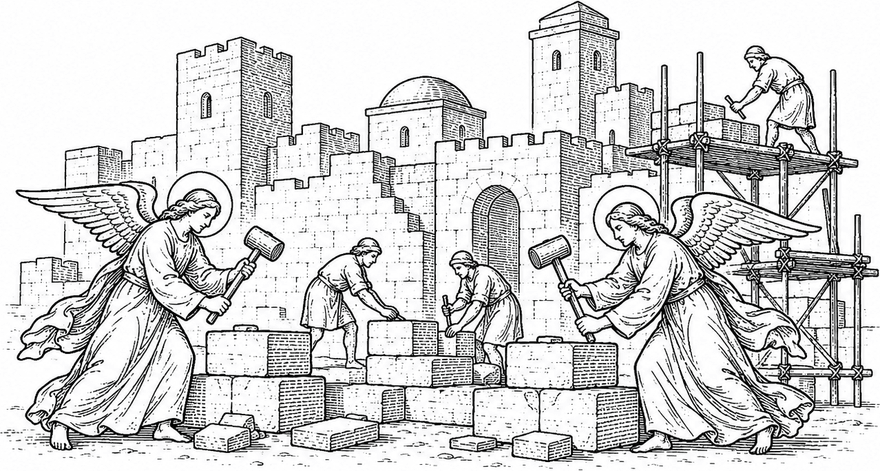
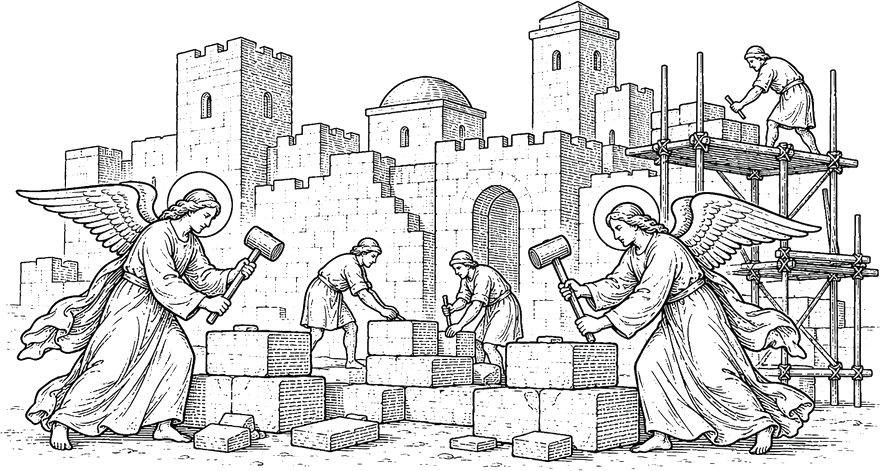
Page d'ouverture : textes de présentation, six ornements distincts
Les quatre points de présentation cèdent la place aux cinq textes fournis, qui
disent enfin ce que le site sera : le modèle de Vigouroux, les traductions
anciennes libres de droit, l'interface et la recherche avancée, l'exigence et le
rôle des signalements, la gratuité. La phrase d'accroche disparaît — les chiffres
prennent sa place et remontent dans le premier écran, qui tient toujours d'un
seul tenant.

Les siècles passent en petites capitales : un XVIIe en capitales pleines fait
une tache dans une ligne de bas-de-casse.

Cinq gravures du dossier CDL s'ajoutent à celle des bâtisseurs, une par
séparation — un motif répété cesse d'être un ornement pour devenir un habillage.
Leurs fonds n'étaient pas blancs mais gris (jusqu'à 230 pour la plus grande) :
multipliés sur le crème, ils plaquaient un rectangle terne. Le point blanc de
chacune est remonté avant détourage, vérifié par histogramme.

diff --git a/app/compte/page.tsx b/app/compte/page.tsx
@@ -106,6 +106,18 @@ function IcoLien() {
     </svg>
   );
 }
+function IcoExigence() {
+  return (
+    <svg width="26" height="26" viewBox="0 0 24 24" aria-hidden="true">
+      {/* une balance : la rigueur, et le partage du jugement */}
+      <path d="M12 4.5v15M7 19.5h10" {...traits} />
+      <path d="M5 8.5h14" {...traits} />
+      <path d="M5 8.5 2.5 14h5z" {...traits} />
+      <path d="M19 8.5 16.5 14h5z" {...traits} />
+      <circle cx="12" cy="6.6" r="1.6" {...traits} />
+    </svg>
+  );
+}
 function IcoLibre() {
   return (
     <svg width="26" height="26" viewBox="0 0 24 24" aria-hidden="true">
@@ -125,21 +137,32 @@ function IcoLibre() {
 // détourage aurait laissé un liseré clair autour de chaque trait.
 const MELANGE: React.CSSProperties = { mixBlendMode: "multiply", display: "block", margin: "0 auto", height: "auto" };
 
-/** Rinceau de vigne à grappe : sépare deux sections. */
-function Vigne({ largeur = 190, opacite = 1 }: { largeur?: number; opacite?: number }) {
+/** Les ornements de séparation. Chacun ne paraît qu'une fois : un motif répété
+ *  cesse d'être un ornement pour devenir un habillage. */
+const ORNEMENTS = {
+  vigne:      { src: "/ornements/vigne-grappe.png", w: 520, h: 247 },
+  clochettes: { src: "/ornements/clochettes.png",   w: 560, h: 110 },
+  lampes:     { src: "/ornements/lampes.png",       w: 520, h: 157 },
+  puits:      { src: "/ornements/puits.png",        w: 340, h: 230 },
+  etoiles:    { src: "/ornements/bois-etoiles.png", w: 380, h: 272 },
+} as const;
+
+function Ornement({ nom, largeur, opacite = 1 }: { nom: keyof typeof ORNEMENTS; largeur: number; opacite?: number }) {
+  const o = ORNEMENTS[nom];
   return (
-    <Image src="/ornements/vigne-grappe.png" alt="" aria-hidden="true"
-      width={520} height={247} sizes={`${largeur}px`}
+    <Image src={o.src} alt="" aria-hidden="true" width={o.w} height={o.h}
+      sizes={`${largeur}px`}
       style={{ ...MELANGE, width: largeur, maxWidth: "100%", opacity: opacite }} />
   );
 }
 
-/** Vase parmi les flots : second ornement de séparation. */
-function VaseFlots({ largeur = 220, opacite = 1 }: { largeur?: number; opacite?: number }) {
+/** Siècle en petites capitales : « XVII<sup>e</sup> » composé en capitales
+ *  pleines fait une tache dans une ligne de bas-de-casse. */
+function Siecle({ n }: { n: string }) {
   return (
-    <Image src="/ornements/vase-flots.png" alt="" aria-hidden="true"
-      width={520} height={156} sizes={`${largeur}px`}
-      style={{ ...MELANGE, width: largeur, maxWidth: "100%", opacity: opacite }} />
+    <span style={{ fontVariant: "small-caps", textTransform: "lowercase" }}>
+      {n}<sup style={{ fontVariant: "normal", fontSize: "0.72em" }}>e</sup>
+    </span>
   );
 }
 
@@ -159,15 +182,28 @@ function CulDeLampe() {
   );
 }
 
-const PRINCIPES: { ico: React.ReactNode; titre: string; texte: string }[] = [
-  { ico: <IcoColonnes />, titre: "Les traductions côte à côte",
-    texte: "Le même verset dans chaque colonne, aligné sur la numérotation du canon. On compare d’un regard, sans feuilleter." },
+const PRINCIPES: { ico: React.ReactNode; titre: string; texte: React.ReactNode }[] = [
+  { ico: <IcoColonnes />, titre: "Les traductions en regard",
+    texte: <>Sur le modèle de la <i>Sainte Bible polyglotte</i> de Fulcran Vigouroux, Corpus Scriptura
+      permettra de consulter en regard les meilleures traductions françaises de la Bible. Nous prévoyons
+      également d’y proposer les textes bibliques en grec, en latin et dans d’autres langues anciennes.</> },
   { ico: <IcoPeres />, titre: "Les Pères de l’Église",
-    texte: "Le corpus patristique en français, découpé passage par passage : des fragments qui se lisent, non un bloc qu’on n’ouvre jamais." },
+    texte: <>Les grands textes patristiques seront proposés en français dans des traductions anciennes,
+      du <Siecle n="xvii" /> au <Siecle n="xx" /> siècle, toutes libres de droit. Nous espérons pouvoir
+      bientôt mettre également à votre disposition les textes dans leur langue originale et, peut-être,
+      des éditions critiques sous licence.</> },
   { ico: <IcoLien />, titre: "Le lien entre les deux",
-    texte: "Chaque passage d’un Père tient au verset qu’il cite ou commente. On part du verset, on remonte à ce que la tradition en a fait." },
+    texte: <>La base de données met en relation la Bible et les œuvres des Pères de l’Église au moyen
+      d’une interface épurée et facile à utiliser. Grâce notamment à un système de recherche avancée,
+      le site s’adresse aussi bien aux curieux qu’aux chercheurs.</> },
+  { ico: <IcoExigence />, titre: "Exigence et collaboration",
+    texte: <>Corpus Scriptura rassemble d’immenses quantités de textes, une matière complexe à traiter
+      et à organiser. Nous nous attachons néanmoins à garantir un haut niveau de rigueur et de fiabilité.
+      Grâce à votre collaboration – notamment par vos signalements –, nous espérons améliorer sans cesse
+      le site.</> },
   { ico: <IcoLibre />, titre: "Libre d’accès",
-    texte: "Sans publicité, sans abonnement, sans revente d’adresses. Le travail est bénévole, et le restera." },
+    texte: <>Corpus Scriptura est sans publicité et sans abonnement. Le travail est bénévole,
+      et le restera.</> },
 ];
 
 // ── Chiffres du corpus ───────────────────────────────────────────────────────
@@ -372,17 +408,11 @@ function ConnexionInscription({ router }: { router: ReturnType<typeof useRouter>
 
       {/* ── Premier écran : un bloc entier, rien de coupé ── */}
       <header className="cs-ecran">
-        <Vigne largeur={200} />
+        <Ornement nom="vigne" largeur={200} />
         <h1 className="cs-enseigne">Corpus Scriptura</h1>
         <p className="cs-titre">L’Écriture, et ce que les Pères en ont dit</p>
 
-        <p className="cs-chapeau">
-          Un verset d’un côté ; de l’autre, ceux qui l’ont commenté pendant quinze siècles.
-          Le site met les deux en regard, ligne à ligne, et rend lisibles des textes qu’on
-          ne trouvait jusqu’ici qu’en bibliothèque.
-        </p>
-
-        <div style={{ display: "flex", gap: "11px", alignItems: "flex-start", textAlign: "left", background: "#faf3e4", border: "1px solid #e0cfa4", borderRadius: "10px", padding: "14px 18px", marginTop: "28px", maxWidth: "480px" }}>
+        <div style={{ display: "flex", gap: "11px", alignItems: "flex-start", textAlign: "left", background: "#faf3e4", border: "1px solid #e0cfa4", borderRadius: "10px", padding: "14px 18px", marginTop: "22px", maxWidth: "480px" }}>
           <svg width="19" height="19" viewBox="0 0 24 24" aria-hidden="true" style={{ color: "#9a7a38", flexShrink: 0, marginTop: "1px" }}>
             <path d="M12 8.5v4.5M12 16.2v.3" stroke="currentColor" strokeWidth="1.7" strokeLinecap="round" />
             <path d="M10.3 3.9 2.5 17.5A2 2 0 0 0 4.2 20.5h15.6a2 2 0 0 0 1.7-3L13.7 3.9a2 2 0 0 0-3.4 0z" stroke="currentColor" strokeWidth="1.4" fill="none" strokeLinejoin="round" />
@@ -393,6 +423,10 @@ function ConnexionInscription({ router }: { router: ReturnType<typeof useRouter>
             Cette page est une annonce, pas une porte.
           </p>
         </div>
+
+        {/* Les chiffres tiennent dans le premier écran depuis que le chapeau en
+            est parti : l'état du chantier se lit sans avoir à faire défiler. */}
+        <div style={{ marginTop: "26px" }}><Chiffres /></div>
 
         {/* Invite à faire défiler : sans elle, un premier écran qui tient dans la
             fenêtre laisse croire qu'il n'y a rien en dessous. */}
@@ -405,9 +439,7 @@ function ConnexionInscription({ router }: { router: ReturnType<typeof useRouter>
 
       <div className="cs-ouverture-corps" style={{ paddingBottom: "56px" }}>
 
-        <Chiffres />
-
-        <div className="cs-principes">
+        <div className="cs-principes" style={{ paddingTop: "44px" }}>
           {PRINCIPES.map(p => (
             <div key={p.titre} style={{ display: "flex", gap: "13px", alignItems: "flex-start" }}>
               <span style={{ color: "#3d6b4f", flexShrink: 0, marginTop: "1px" }}>{p.ico}</span>
@@ -419,7 +451,7 @@ function ConnexionInscription({ router }: { router: ReturnType<typeof useRouter>
           ))}
         </div>
 
-        <div style={{ margin: "6px 0 32px" }}><Vigne largeur={150} opacite={0.5} /></div>
+        <div style={{ margin: "6px 0 34px" }}><Ornement nom="clochettes" largeur={210} opacite={0.7} /></div>
 
         {/* ── Textes rares ── */}
         <div style={{ borderTop: "1px solid #e0d9cc", borderBottom: "1px solid #e0d9cc", padding: "26px 0", marginBottom: "34px", textAlign: "center" }}>
@@ -427,7 +459,7 @@ function ConnexionInscription({ router }: { router: ReturnType<typeof useRouter>
             Ce qu’on ne trouve pas ailleurs
           </p>
           <p style={{ fontSize: "13.5px", color: "#4a453e", lineHeight: 1.8, maxWidth: "580px", margin: "0 auto" }}>
-            Beaucoup de ces textes n’existent qu’en volumes du XIX<sup>e</sup> siècle, épuisés,
+            Beaucoup de ces textes n’existent qu’en volumes du <Siecle n="xix" /> siècle, épuisés,
             dispersés dans quelques fonds, et illisibles pour un moteur de recherche. Le site les
             reprend page à page : les fac-similés passent par une <strong style={{ fontWeight: 600, color: "#2a3d30" }}>océrisation</strong>,
             puis par une relecture, jusqu’à ce que le texte redevienne un texte – cherchable,
@@ -437,6 +469,8 @@ function ConnexionInscription({ router }: { router: ReturnType<typeof useRouter>
             C’est le cœur du travail, et ce qui prend le plus de temps.
           </p>
         </div>
+
+        <div style={{ margin: "34px 0 30px" }}><Ornement nom="lampes" largeur={220} opacite={0.7} /></div>
 
         {/* ── Être prévenu, et soutenir ── */}
         <div className="cs-cartes">
@@ -464,6 +498,8 @@ function ConnexionInscription({ router }: { router: ReturnType<typeof useRouter>
             </a>
           </div>
         </div>
+
+        <div style={{ margin: "34px 0 26px" }}><Ornement nom="puits" largeur={110} opacite={0.65} /></div>
 
         {/* ── Connexion ── */}
         <div className="cs-connexion" style={{ background: "#fff", border: "1px solid #ddd8cf", borderRadius: "12px", padding: "30px 32px 34px", width: "100%", maxWidth: "380px", margin: "0 auto", boxShadow: "0 4px 24px rgba(0,0,0,0.05)" }}>
@@ -528,7 +564,7 @@ function ConnexionInscription({ router }: { router: ReturnType<typeof useRouter>
         )}
         </div>
 
-        <div style={{ margin: "38px 0 4px" }}><VaseFlots largeur={230} opacite={0.55} /></div>
+        <div style={{ margin: "40px 0 6px" }}><Ornement nom="etoiles" largeur={130} opacite={0.6} /></div>
 
         {/* ── Démarchage ── */}
         <aside style={{ marginTop: "34px", border: "1px solid #ddc9c2", background: "#fdf6f4", borderRadius: "10px", padding: "20px 24px", maxWidth: "660px", marginLeft: "auto", marginRight: "auto" }}>
